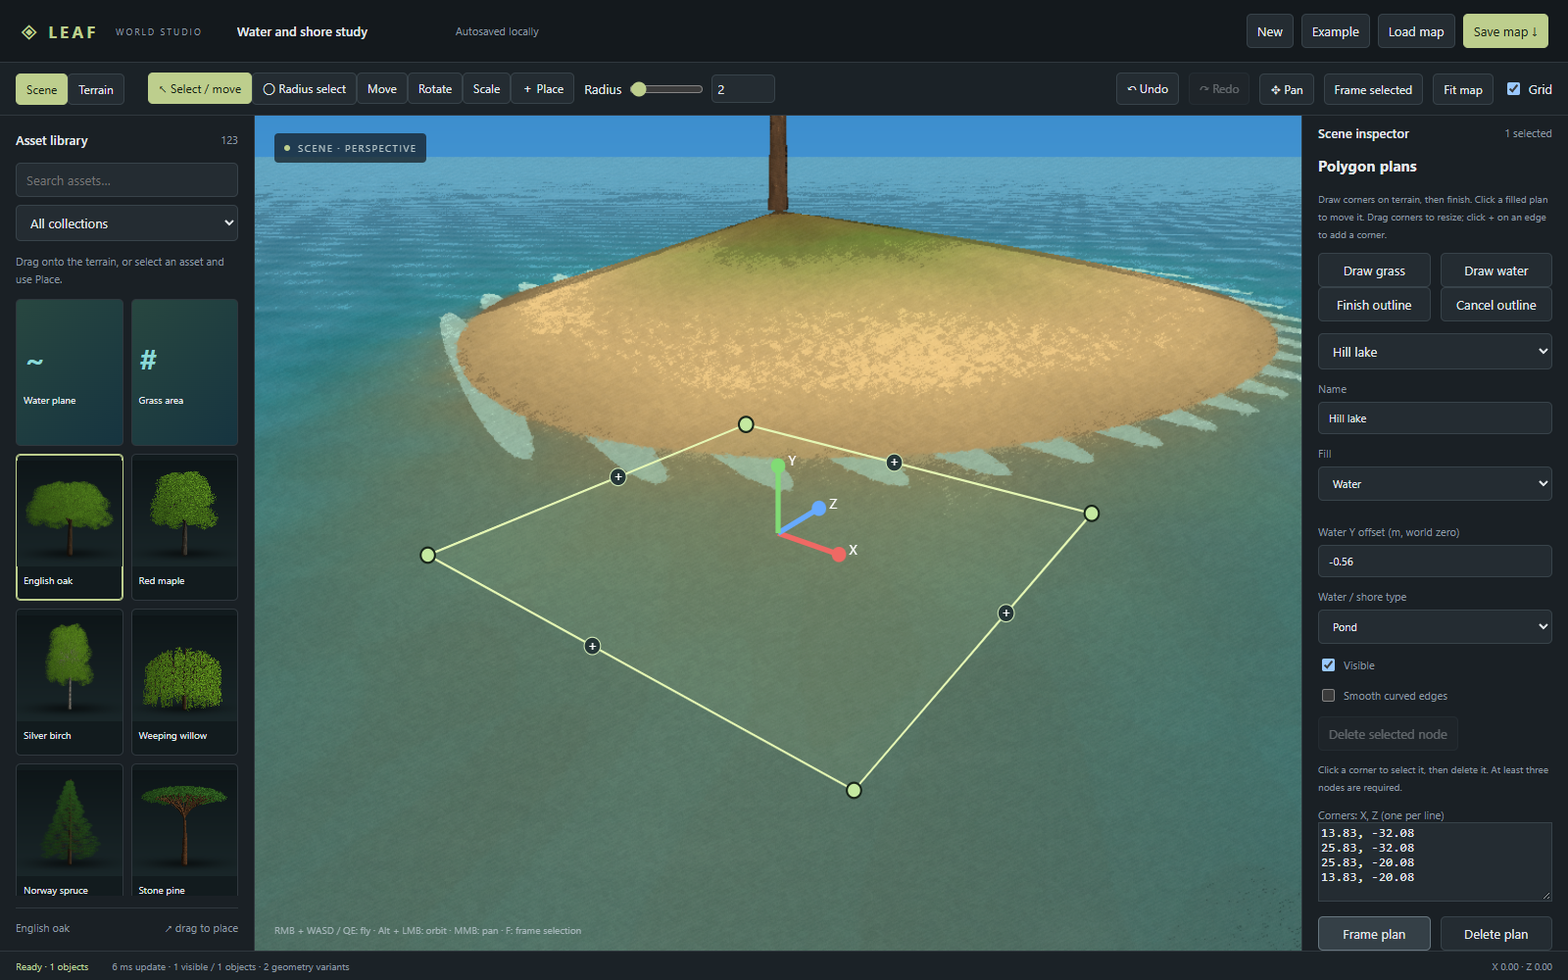
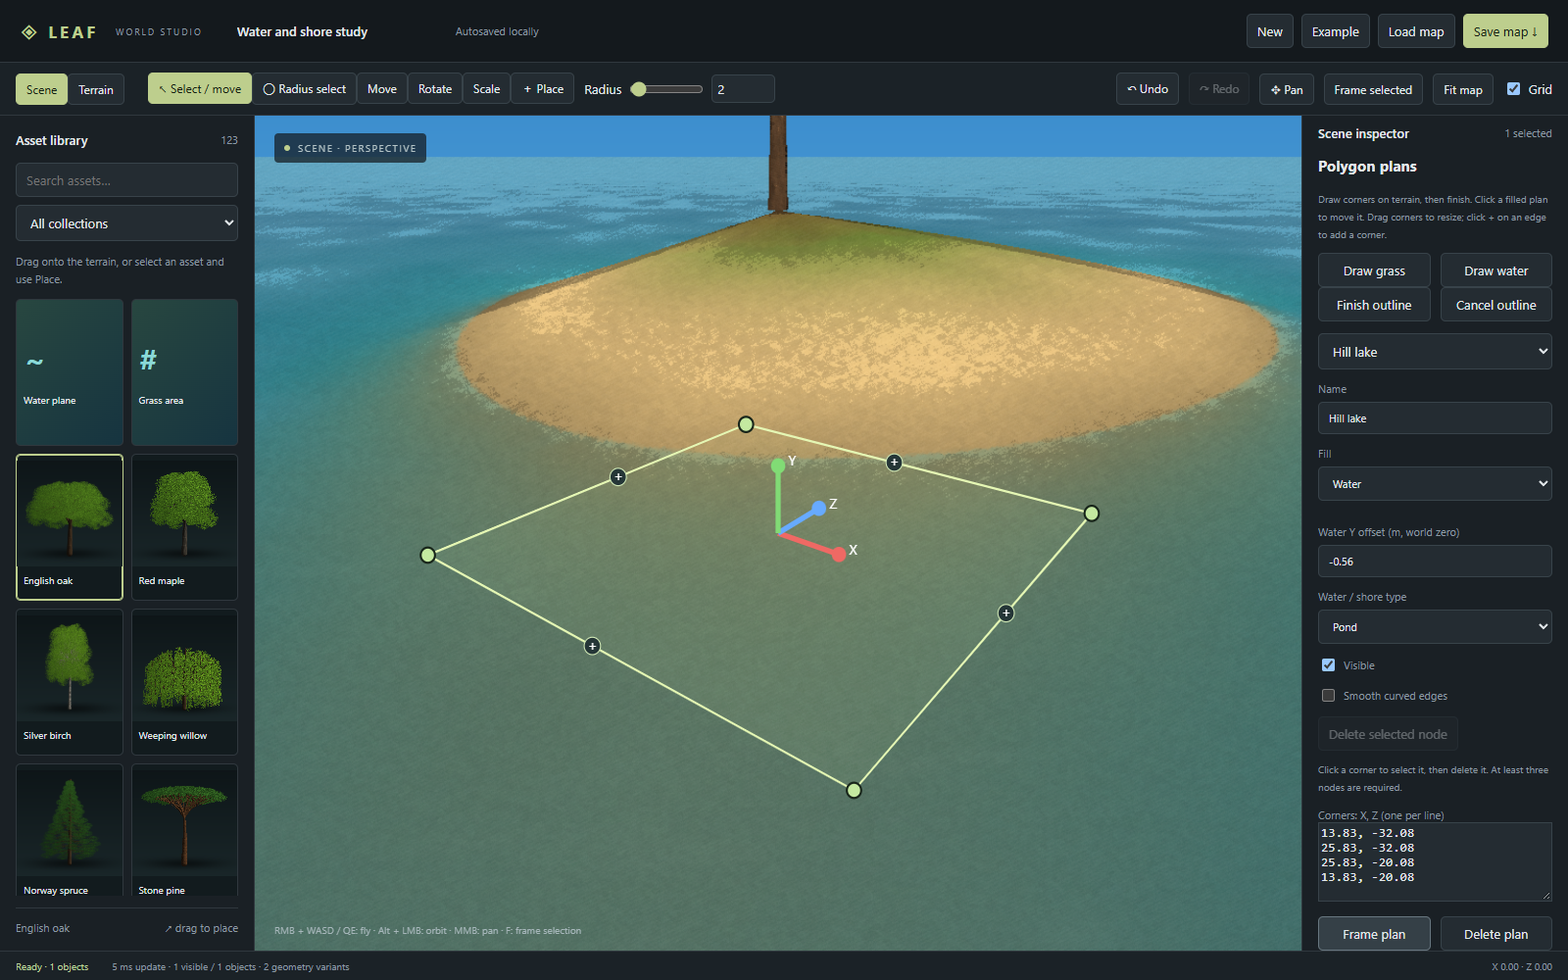
feat(editor): add island example and directional river flow

diff --git a/src/plan-model.js b/src/plan-model.js
@@ -2,6 +2,6 @@
 export function planOutline(p){if(!p.smooth)return p.vertices;const v=p.vertices,out=[];for(let i=0;i<v.length;i++){const a=v[(i+v.length-1)%v.length],b=v[i],c=v[(i+1)%v.length];const start={x:b.x+(a.x-b.x)*.22,z:b.z+(a.z-b.z)*.22},end={x:b.x+(c.x-b.x)*.22,z:b.z+(c.z-b.z)*.22};for(let k=0;k<4;k++){const t=k/3,u=1-t;out.push({x:u*u*start.x+2*u*t*b.x+t*t*end.x,z:u*u*start.z+2*u*t*b.z+t*t*end.z});}}return out;}
 const cross=(a,b,c)=>(b.x-a.x)*(c.z-a.z)-(b.z-a.z)*(c.x-a.x);
 export function insidePlan(x,z,vertices){let inside=false;for(let i=0,j=vertices.length-1;i<vertices.length;j=i++){const a=vertices[i],b=vertices[j];if((a.z>z)!==(b.z>z)&&x<(b.x-a.x)*(z-a.z)/(b.z-a.z)+a.x)inside=!inside;}return inside;}
-export function validatePlans(value,extent){if(value===undefined)return [];if(!Array.isArray(value)||value.length>16)throw Error('Up to 16 plans are supported.');const ids=new Set();let tiles=0;return value.map(p=>{if(!p||!Number.isInteger(p.id)||p.id<1||ids.has(p.id)||!['grass','water'].includes(p.type)||typeof p.name!=='string'||p.name.length>80||typeof p.visible!=='boolean')throw Error('Invalid plan.');ids.add(p.id);if(!Array.isArray(p.vertices)||p.vertices.length<3||p.vertices.length>32||p.vertices.some(v=>!v||!Number.isFinite(v.x)||!Number.isFinite(v.z)||Math.abs(v.x)>extent/2||Math.abs(v.z)>extent/2))throw Error('A plan needs 3-32 corners inside the map.');const v=p.vertices;let area=0;for(let i=0;i<v.length;i++){const a=v[i],b=v[(i+1)%v.length];if(Math.hypot(a.x-b.x,a.z-b.z)<.01)throw Error('Plan edges must have length.');area+=a.x*b.z-b.x*a.z;for(let j=i+2;j<v.length;j++){if(i===0&&j===v.length-1)continue;const c=v[j],d=v[(j+1)%v.length];if(cross(a,b,c)*cross(a,b,d)<=0&&cross(c,d,a)*cross(c,d,b)<=0&&Math.max(Math.min(a.x,b.x),Math.min(c.x,d.x))<=Math.min(Math.max(a.x,b.x),Math.max(c.x,d.x))&&Math.max(Math.min(a.z,b.z),Math.min(c.z,d.z))<=Math.min(Math.max(a.z,b.z),Math.max(c.z,d.z)))throw Error('Plan edges must not cross.');}}if(Math.abs(area)<.1)throw Error('Plan needs a nonzero area.');if(!Number.isInteger(p.seed)||p.seed<0||p.seed>4294967295||!Number.isFinite(p.spacing)||p.spacing<.5||p.spacing>32||!Number.isFinite(p.scale)||p.scale<.1||p.scale>3||!Number.isInteger(p.preset)||p.preset<61||p.preset>70||!Number.isFinite(p.level)||p.level< -256||p.level>2048||!['pond','lake','ocean'].includes(p.kind))throw Error('Invalid plan fill settings.');if(p.smooth!==undefined&&typeof p.smooth!=="boolean"||p.randomRotation!==undefined&&typeof p.randomRotation!=="boolean")throw Error("Invalid polygon options.");const result={smooth:p.smooth??false,randomRotation:p.randomRotation??true,id:p.id,name:p.name,type:p.type,visible:p.visible,vertices:v.map(a=>({x:a.x,z:a.z})),seed:p.seed,spacing:p.spacing,scale:p.scale,preset:p.preset,level:p.level,kind:p.kind};if(p.type==='grass'){const cells=planCells(result);tiles+=cells.length;if(tiles>8192)throw Error('Plans support 8,192 grass tiles in total; increase spacing.');}return result;});}
+export function validatePlans(value,extent){if(value===undefined)return [];if(!Array.isArray(value)||value.length>16)throw Error('Up to 16 plans are supported.');const ids=new Set();let tiles=0;return value.map(p=>{if(!p||!Number.isInteger(p.id)||p.id<1||ids.has(p.id)||!['grass','water'].includes(p.type)||typeof p.name!=='string'||p.name.length>80||typeof p.visible!=='boolean')throw Error('Invalid plan.');ids.add(p.id);if(!Array.isArray(p.vertices)||p.vertices.length<3||p.vertices.length>32||p.vertices.some(v=>!v||!Number.isFinite(v.x)||!Number.isFinite(v.z)||Math.abs(v.x)>extent/2||Math.abs(v.z)>extent/2))throw Error('A plan needs 3-32 corners inside the map.');const v=p.vertices;let area=0;for(let i=0;i<v.length;i++){const a=v[i],b=v[(i+1)%v.length];if(Math.hypot(a.x-b.x,a.z-b.z)<.01)throw Error('Plan edges must have length.');area+=a.x*b.z-b.x*a.z;for(let j=i+2;j<v.length;j++){if(i===0&&j===v.length-1)continue;const c=v[j],d=v[(j+1)%v.length];if(cross(a,b,c)*cross(a,b,d)<=0&&cross(c,d,a)*cross(c,d,b)<=0&&Math.max(Math.min(a.x,b.x),Math.min(c.x,d.x))<=Math.min(Math.max(a.x,b.x),Math.max(c.x,d.x))&&Math.max(Math.min(a.z,b.z),Math.min(c.z,d.z))<=Math.min(Math.max(a.z,b.z),Math.max(c.z,d.z)))throw Error('Plan edges must not cross.');}}if(Math.abs(area)<.1)throw Error('Plan needs a nonzero area.');if(!Number.isInteger(p.seed)||p.seed<0||p.seed>4294967295||!Number.isFinite(p.spacing)||p.spacing<.5||p.spacing>32||!Number.isFinite(p.scale)||p.scale<.1||p.scale>3||!Number.isInteger(p.preset)||p.preset<61||p.preset>70||!Number.isFinite(p.level)||p.level< -256||p.level>2048||!['pond','lake','ocean'].includes(p.kind))throw Error('Invalid plan fill settings.');if(p.smooth!==undefined&&typeof p.smooth!=="boolean"||p.randomRotation!==undefined&&typeof p.randomRotation!=="boolean")throw Error("Invalid polygon options.");if(p.flowDirection!==undefined&&(!Number.isFinite(p.flowDirection)||p.flowDirection<0||p.flowDirection>360)||p.flowSpeed!==undefined&&(!Number.isFinite(p.flowSpeed)||p.flowSpeed<0||p.flowSpeed>10)||p.flowEnabled!==undefined&&typeof p.flowEnabled!=="boolean")throw Error("Invalid water flow.");const result={flowEnabled:p.flowEnabled??false,flowDirection:p.flowDirection??90,flowSpeed:p.flowSpeed??1,smooth:p.smooth??false,randomRotation:p.randomRotation??true,id:p.id,name:p.name,type:p.type,visible:p.visible,vertices:v.map(a=>({x:a.x,z:a.z})),seed:p.seed,spacing:p.spacing,scale:p.scale,preset:p.preset,level:p.level,kind:p.kind};if(p.type==='grass'){const cells=planCells(result);tiles+=cells.length;if(tiles>8192)throw Error('Plans support 8,192 grass tiles in total; increase spacing.');}return result;});}
 export function planCells(p){const outline=planOutline(p);const xs=outline.map(v=>v.x),zs=outline.map(v=>v.z),minX=Math.min(...xs),maxX=Math.max(...xs),minZ=Math.min(...zs),maxZ=Math.max(...zs);const nx=Math.ceil((maxX-minX)/p.spacing),nz=Math.ceil((maxZ-minZ)/p.spacing);if(nx*nz>100000)throw Error('Plan grid is too dense; increase spacing.');const cells=[];for(let z=0;z<nz;z++)for(let x=0;x<nx;x++){const xx=minX+(x+.5)*p.spacing,zz=minZ+(z+.5)*p.spacing;if(insidePlan(xx,zz,outline))cells.push({x:xx,z:zz,rotation:p.randomRotation===false?0:((Math.imul(x+1,73856093)^Math.imul(z+1,19349663)^p.seed)>>>0)%360});}return cells;}
 export function planObjects(plans,objects){const used=new Set(objects.map(o=>o.id)),tiles=[];let id=1;for(const p of plans??[]){if(p.type!=='grass'||!p.visible)continue;while(used.has(id))id++;const planId=id++;used.add(planId);for(const cell of planCells(p))tiles.push({...cell,id:planId,preset:p.preset,seed:p.seed,scale:p.scale,visible:true,planId:p.id});}return tiles;}

diff --git a/src/plan-editor.js b/src/plan-editor.js
@@ -6,11 +6,11 @@ for(const p of PRESETS.filter(p=>p.id>=61&&p.id<=70)){const o=document.createEle
 for(const type of ['grass','water'])$('draw'+(type==='grass'?'Grass':'Water')+'Plan').onclick=()=>{draft={type,vertices:[]};selected=null;mode('plans');toast('Click corners on the terrain, then Finish outline.');request();};
 $('cancelPlan').onclick=()=>{draft=null;request();};$('finishPlan').onclick=()=>{if(!draft||draft.vertices.length<3)return toast('Place at least three corners.');const d=draft;edit(plans=>{selected=Math.max(0,...plans.map(p=>p.id))+1;plans.push({id:selected,name:(d.type==='grass'?'Grass':'Water')+' plan '+selected,type:d.type,vertices:d.vertices,visible:true,seed:42,spacing:2,scale:.4,preset:61,level:terrainHeight(getMap(),d.vertices[0].x,d.vertices[0].z)+.5,kind:'lake'});});if(chosen())draft=null;refresh();request();};
 $('planList').onchange=()=>select(Number($('planList').value));
-for(const [id,key] of [['planSmooth','smooth'],['planRandomRotation','randomRotation'],['planSeed','seed'],['planName','name'],['planType','type'],['planPreset','preset'],['planSpacing','spacing'],['planScale','scale'],['planLevel','level'],['planKind','kind'],['planVisible','visible']])$(id).onchange=()=>edit(plans=>{const p=plans.find(p=>p.id===selected);if(p)p[key]=['visible','smooth','randomRotation'].includes(key)?$(id).checked:['name','type','kind'].includes(key)?$(id).value:Number($(id).value);});
+for(const [id,key] of [['planFlowEnabled','flowEnabled'],['planFlowDirection','flowDirection'],['planFlowSpeed','flowSpeed'],['planSmooth','smooth'],['planRandomRotation','randomRotation'],['planSeed','seed'],['planName','name'],['planType','type'],['planPreset','preset'],['planSpacing','spacing'],['planScale','scale'],['planLevel','level'],['planKind','kind'],['planVisible','visible']])$(id).onchange=()=>edit(plans=>{const p=plans.find(p=>p.id===selected);if(p)p[key]=['visible','smooth','randomRotation','flowEnabled'].includes(key)?$(id).checked:['name','type','kind'].includes(key)?$(id).value:Number($(id).value);});
 $('planVertices').onchange=()=>{try{const vertices=$('planVertices').value.trim().split(/\n/).map(line=>{const [x,z]=line.trim().split(/[, ]+/).map(Number);return {x,z};});edit(plans=>{const p=plans.find(p=>p.id===selected);if(p)p.vertices=vertices;});}catch(e){toast(e.message);}};
 $('deletePlanNode').onclick=()=>{const p=chosen();if(!p||node===null)return;if(p.vertices.length<=3)return toast('A polygon needs at least three nodes.');edit(plans=>plans.find(p=>p.id===selected).vertices.splice(node,1));node=null;refresh();request();};
 $('deletePlan').onclick=()=>edit(plans=>{const i=plans.findIndex(p=>p.id===selected);if(i>=0)plans.splice(i,1);});$('framePlan').onclick=()=>{const p=chosen();if(!p)return;const x=p.vertices.reduce((s,v)=>s+v.x,0)/p.vertices.length,z=p.vertices.reduce((s,v)=>s+v.z,0)/p.vertices.length;frame([x,p.type==='water'?p.level:terrainHeight(getMap(),x,z),z],Math.max(3,...p.vertices.map(v=>Math.hypot(v.x-x,v.z-z))));};
-function refresh(){if(selected&&!chosen())selected=null;$('planList').replaceChildren();for(const p of getMap().plans??[]){const o=document.createElement('option');o.value=p.id;o.textContent=p.name;$('planList').append(o);}$('planList').value=selected??'';const p=chosen();$('planSmooth').checked=p?.smooth??false;$('planRandomRotation').checked=p?.randomRotation??true;$('planSeed').value=p?.seed??42;for(const id of ['planRandomRotation','planSeed'])$(id).parentElement.hidden=p?.type==='water';$('deletePlanNode').disabled=!p||node===null||p.vertices.length<=3;$('planTransform').disabled=!p;$('planHeightLabel').hidden=p?.type!=='water';$('planShoreLabel').hidden=p?.type!=='water';for(const id of ['planPreset','planSpacing','planScale'])$(id).parentElement.hidden=p?.type==='water';for(const [id,key] of [['planName','name'],['planType','type'],['planPreset','preset'],['planSpacing','spacing'],['planScale','scale'],['planLevel','level'],['planKind','kind']])$(id).value=p?.[key]??'';if(p)$('planLevel').value=p.level.toFixed(2);$('planVisible').checked=p?.visible??true;$('planVertices').value=p?p.vertices.map(v=>`${v.x.toFixed(2)}, ${v.z.toFixed(2)}`).join('\n'):'';}
+function refresh(){if(selected&&!chosen())selected=null;$('planList').replaceChildren();for(const p of getMap().plans??[]){const o=document.createElement('option');o.value=p.id;o.textContent=p.name;$('planList').append(o);}$('planList').value=selected??'';const p=chosen();$('planFlow').hidden=p?.type!=='water';$('planFlowEnabled').checked=p?.flowEnabled??false;$('planFlowDirection').value=p?.flowDirection??90;$('planFlowSpeed').value=p?.flowSpeed??1;$('planSmooth').checked=p?.smooth??false;$('planRandomRotation').checked=p?.randomRotation??true;$('planSeed').value=p?.seed??42;for(const id of ['planRandomRotation','planSeed'])$(id).parentElement.hidden=p?.type==='water';$('deletePlanNode').disabled=!p||node===null||p.vertices.length<=3;$('planTransform').disabled=!p;$('planHeightLabel').hidden=p?.type!=='water';$('planShoreLabel').hidden=p?.type!=='water';for(const id of ['planPreset','planSpacing','planScale'])$(id).parentElement.hidden=p?.type==='water';for(const [id,key] of [['planName','name'],['planType','type'],['planPreset','preset'],['planSpacing','spacing'],['planScale','scale'],['planLevel','level'],['planKind','kind']])$(id).value=p?.[key]??'';if(p)$('planLevel').value=p.level.toFixed(2);$('planVisible').checked=p?.visible??true;$('planVertices').value=p?p.vertices.map(v=>`${v.x.toFixed(2)}, ${v.z.toFixed(2)}`).join('\n'):'';}
 function hitPoint(screen,level){const d=ray(view,screen),t=(level-view.position[1])/d[1];if(!Number.isFinite(t)||t<=0)return null;return {x:view.position[0]+d[0]*t,z:view.position[2]+d[2]*t};}
 function dragPoint(screen,plan,map){if(plan.type==='water')return hitPoint(screen,plan.level);const q=surfaceRay(view,map,screen);return q.hit?q:null;}
 function down(event,screen,world,picked,renderObjects){const handle=event.target.closest('[data-plan-vertex],[data-plan-edge]');if(handle&&chosen()){const p=chosen(),base=structuredClone(getMap());let vertex=Number(handle.dataset.planVertex);if(handle.dataset.planEdge!==undefined){if(p.vertices.length>=32){toast('Maximum 32 corners.');return true;}const index=Number(handle.dataset.planEdge),q=base.plans.find(p=>p.id===selected),a=q.vertices[index],b=q.vertices[(index+1)%q.vertices.length];vertex=index+1;q.vertices.splice(vertex,0,{x:(a.x+b.x)/2,z:(a.z+b.z)/2});}const start=dragPoint(screen,p,base);if(!start)return true;node=vertex;drag={base,vertex,start};preview(base);refresh();return true;}

diff --git a/src/island-example.js b/src/island-example.js
@@ -1,0 +1,24 @@
+import {emptyMap,terrainHeight,validateMap} from './map-model.js';
+import {defaultScale} from './asset-scale.js';
+import {insidePlan,planOutline,planCells} from './plan-model.js';
+// One kilometre map: offshore margin, coastal shelf, wooded uplands and an estuary.
+export function islandExample(){
+ const m=emptyMap();m.name='Island - 1 km';m.extent=1000;m.light={azimuth:235,elevation:38};m.water.ocean={enabled:true,level:0};m.water.weather={windDirection:35,windSpeed:3,rain:0};
+ const riverX=z=>28*Math.sin((z+80)/100);
+ const height=(x,z)=>{const a=Math.atan2(z,x),r=Math.hypot(x/1.06,z),shore=350+24*Math.sin(a*3)+16*Math.cos(a*5),inland=shore-r;let h=inland<0?inland*.18:Math.min(24,inland*.20);h+=65*Math.exp(-((x+135)**2+(z+100)**2)/10000)*Math.min(1,Math.max(0,inland/80))+42*Math.exp(-((x-150)**2+(z+95)**2)/6500);if(z>-95&&z<390){const d=Math.abs(x-riverX(z));const cut=Math.max(0,Math.min(1,(58-d)/36));const blend=cut*cut*(3-2*cut);h=h*(1-blend)+(-4)*blend;}const lake=Math.hypot(x,z+55);if(lake<70)h=Math.min(h,-3+(lake/70)**4*15);return h;};
+ for(let z=0;z<65;z++)for(let x=0;x<65;x++)m.terrain[z*65+x]=height((x/64-.5)*1000,(z/64-.5)*1000);
+ const addPlan=(name,type,vertices,extra={})=>m.plans.push({id:m.plans.length+1,name,type,vertices,visible:true,seed:42,spacing:4,scale:.7,preset:61,level:0,kind:'lake',smooth:true,randomRotation:true,...extra});
+ const oval=(x,z,rx,rz)=>Array.from({length:12},(_,i)=>({x:x+Math.cos(i*Math.PI/6)*rx,z:z+Math.sin(i*Math.PI/6)*rz}));
+ addPlan('Inland lagoon','water',oval(0,-55,68,68),{level:.1});
+ const riverZ=[-70,-10,50,110,170,230,290,350,400];
+ addPlan('River to the southern bay','water',[...riverZ.map(z=>({x:riverX(z)-36,z})),...riverZ.toReversed().map(z=>({x:riverX(z)+36,z}))],{level:.1,flowEnabled:true,flowDirection:90,flowSpeed:.8});
+ for(const [name,x,z,rx,rz,preset] of [['West meadow',-140,115,90,95,61],['East meadow',155,100,85,90,62],['Northern clearing',30,-225,75,45,67],['Coastal meadow',-180,-215,50,40,65]])addPlan(name,'grass',oval(x,z,rx,rz),{preset,seed:100+m.plans.length,spacing:4});
+ // Clip authored grass footprints to dry, gently sloping land before committing the example.
+ m.plans=m.plans.filter(p=>p.type==='water'||planCells(p).every(c=>terrainHeight(m,c.x,c.z)>3));
+ let seed=87191;const random=()=>{seed=(Math.imul(seed,1664525)+1013904223)>>>0;return seed/4294967296;};
+ const grass=m.plans.filter(p=>p.type==='grass').map(planOutline);
+ const place=(preset,x,z,factor=1)=>m.objects.push({id:m.objects.length+1,preset,x,z,scale:Math.min(3,defaultScale(preset)*factor),rotation:random()*360,seed:42+Math.floor(random()*4),visible:true});
+ for(let z=-335;z<335;z+=12)for(let x=-360;x<360;x+=12){const xx=x+(random()-.5)*7,zz=z+(random()-.5)*7,h=terrainHeight(m,xx,zz);if(h<6||grass.some(v=>insidePlan(xx,zz,v))||Math.abs(xx-riverX(zz))<53&&zz>-110||random()<.24)continue;const slope=Math.hypot(terrainHeight(m,xx+3,zz)-h,terrainHeight(m,xx,zz+3)-h)/3;if(slope>1)continue;place(h>38?4:random()<.65?0:2,xx,zz,.7+random()*.25);if(random()<.4)place(31,xx+3,zz+2,.9);if(random()<.13)place(111,xx-3,zz+3,.8);if(random()<.15)place(81,xx+2,zz-2,.8);}
+ for(let i=0;i<500;i++){const x=(random()-.5)*700,z=(random()-.5)*700,h=terrainHeight(m,x,z);if(h<1||h>75)continue;if(h<5)place(91+Math.floor(random()*5),x,z,.8+random()*.8);else if(grass.some(v=>insidePlan(x,z,v)))place(random()<.5?21:24,x,z,.8);else if(Math.abs(x-riverX(z))>50)place(random()<.5?11:41,x,z,.8);}
+ return validateMap(m);
+}

diff --git a/src/editor.js b/src/editor.js
@@ -1,7 +1,7 @@
 import {transformGizmo} from './transform-gizmo.js';
 import {planEditor} from './plan-editor.js';
 import {waterEditor} from './water-editor.js';
-import {forestExample} from './forest-example.js';
+import {islandExample} from './island-example.js';
 import {defaultScale} from './asset-scale.js';
 import {restoreMap,autosaveMap} from './map-storage.js';
 import {PRESETS} from './species.js';
@@ -82,7 +82,7 @@ $('load').onclick=()=>$('file').click();$('file').onchange=async()=>{const f=$('
 $('new').onclick=()=>{$('newMapName').value='Untitled woodland';$('newMapDialog').showModal();};
 $('cancelNewMap').onclick=()=>$('newMapDialog').close();
 $('newMapForm').onsubmit=e=>{e.preventDefault();const next=emptyMap();next.name=$('newMapName').value.trim()||'Untitled woodland';next.extent=Number($('newMapExtent').value);selection.clear();commit(next);$('newMapDialog').close();fit();toast('New map created. Its dimensions are fixed. Undo restores the previous map.');};
-function example(){selection.clear();commit(forestExample());view.yaw=-.30;view.pitch=-.28;view.speed=25;view.grid=false;$('grid').checked=false;frameCamera(view,[8,18,30],65);request();toast('Forest stress test: '+map.objects.length.toLocaleString()+' placements on 512 m of rolling hills.');}
+function example(){selection.clear();planUI.cancel();commit(islandExample());view.yaw=-.35;view.pitch=-.65;view.speed=50;view.grid=false;$('grid').checked=false;frameCamera(view,[0,12,0],410);request();toast('1 km island: coastal forest, grass areas, lagoon and flowing river.');}
 $('example').onclick=example;$('emptyExample').onclick=example;
 async function draw(){if(busy||!dirty||!renderer)return;busy=true;dirty=false;$('status').textContent='Updating scene…';const start=performance.now();const previous=window.mapDiagnostics.lastRenderStart;window.mapDiagnostics.lastRenderStart=start;try{await renderer.render(placementPreview??map,new Set(selection),{...view,position:[...view.position]});window.mapDiagnostics.frames++;const log=window.mapDiagnostics.timings??=[];log.push({ms:performance.now()-start,startGap:previous?start-previous:0,position:[...view.position],...renderer.profile});if(log.length>300)log.shift();$('status').textContent='Ready · '+map.objects.length+' objects';$('stats').textContent=`${(performance.now()-start).toFixed(0)} ms update · ${renderer.rendered} visible / ${map.objects.length} objects · ${renderer.cache.size+renderer.highCache.size} geometry variants`;overlay();}catch(e){fail(e);}finally{busy=false;if(renderer?.pendingDetail)dirty=true;if(dirty)request();}}
 

diff --git a/src/water-model.js b/src/water-model.js
@@ -8,4 +8,4 @@ const ids=new Set();const planes=w.planes.map(p=>{if(!p||!Number.isInteger(p.id)
 const weather=w.weather??defaultWater().weather;if(!finite(weather.windDirection,0,360)||!finite(weather.windSpeed,0,30)||!finite(weather.rain,0,1))throw Error('Invalid water weather.');return {ocean:{enabled:w.ocean.enabled,level:w.ocean.level},planes,weather:{...weather}};}
 export function packWater(water){const rows=[];if(water.ocean.enabled)rows.push(0,0,0,0,water.ocean.level,0,2,1);for(const p of water.planes)if(p.visible)rows.push(p.x,p.z,p.width*.5,p.length*.5,p.level,p.rotation*Math.PI/180,p.kind==='ocean'?2:p.kind==='lake'?1:0,1);return new Float32Array(rows);}
 
-export function packSurfaces(water,plans=[]){const rows=Array.from(packWater(water)),points=new Float32Array(49*128*4);for(const p of plans){if(p.type!=='water'||!p.visible)continue;const outline=planOutline(p);const index=rows.length/8;const xs=outline.map(v=>v.x),zs=outline.map(v=>v.z),minX=Math.min(...xs),maxX=Math.max(...xs),minZ=Math.min(...zs),maxZ=Math.max(...zs);rows.push((minX+maxX)/2,(minZ+maxZ)/2,(maxX-minX)/2,(maxZ-minZ)/2,p.level,0,p.kind==='ocean'?2:p.kind==='lake'?1:0,outline.length);outline.forEach((v,i)=>points.set([v.x,v.z,0,0],(index*128+i)*4));}return {rows:new Float32Array(rows),points};}
+export function packSurfaces(water,plans=[]){const rows=Array.from(packWater(water)),points=new Float32Array(49*128*4);for(const p of plans){if(p.type!=='water'||!p.visible)continue;const outline=planOutline(p);const index=rows.length/8;const xs=outline.map(v=>v.x),zs=outline.map(v=>v.z),minX=Math.min(...xs),maxX=Math.max(...xs),minZ=Math.min(...zs),maxZ=Math.max(...zs);rows.push((minX+maxX)/2,(minZ+maxZ)/2,(maxX-minX)/2,(maxZ-minZ)/2,p.level,0,p.kind==='ocean'?2:p.kind==='lake'?1:0,outline.length);outline.forEach((v,i)=>points.set([v.x,v.z,p.flowEnabled?(p.flowDirection??90):0,p.flowEnabled?(p.flowSpeed??1):0],(index*128+i)*4));}return {rows:new Float32Array(rows),points};}

diff --git a/docs/water.md b/docs/water.md
@@ -34,3 +34,9 @@ Validation: test-plans.mjs checks concave filling, invalid edges, on-object edge
 Select a corner and use **Delete selected node** to remove it; deletion is disabled at three nodes. **Smooth curved edges** rounds the corners for both grass clipping and water rendering while retaining editable control nodes. Curves use up to 128 sampled boundary points. **Seeded random grass rotation** can be disabled for aligned tiles; the grass rotation seed produces repeatable rotation per tile without changing position or scale.
 
 Transparency uses exponential attenuation over the underwater viewing-ray distance. Shallow water reveals terrain and submerged objects; deeper water becomes opaque. Coastal water is clearest, lakes intermediate, and ponds murkier. Fresnel reflection and shoreline foam remain visible. This composites the existing scene without refractive distortion; pixels without a rendered seabed retain the water colour.
+
+Water uses broad irregular wave shading with distance-filtered ripples and a narrow, softly varying shoreline wash. Beyond map edges the synthetic seabed stays submerged, avoiding an unrendered land strip between terrain and ocean.
+
+Water polygon inspectors include Directional river flow, direction (0 degrees along +X, 90 along +Z), and speed in metres per second. Current advects the procedural surface pattern independently of shared wind and persists with the map. Surfaces remain horizontal: this is a visual current, not downhill fluid simulation.
+
+The Example button now creates a 1000 by 1000 metre island map: ocean and sandy shores, two wooded uplands, four curved grass areas using seeded rotation, a lagoon and a carved river channel. The original forest generator remains available in source for stress testing.

diff --git a/README.md b/README.md
@@ -6,7 +6,7 @@ Ten tree presets, ten bush presets, ten flower presets, ten fern presets, ten mo
 
 ## Map editor
 
-Open `editor.html` for the Scene and Terrain workspaces: all 121 assets, drag/drop, radius selection, transforms, height brushes, automatic ground attachment, undo/redo, autosave and JSON map/terrain save-load. The editor now has a perspective camera with Unity-style right-mouse flight, Alt-orbit, pan and selection framing. Worlds support up to 65,536 m width and 100,000 stored placements, with sparse terrain and bounded visible rendering. Use **Example** to load the 512 m forest hills stress test: 7,923 placements, mixed woodland, clearings and rolling terrain. See `docs/editor.md` for controls, limits and tests.
+Open `editor.html` for the Scene and Terrain workspaces: all 121 assets, drag/drop, radius selection, transforms, height brushes, automatic ground attachment, undo/redo, autosave and JSON map/terrain save-load. The editor now has a perspective camera with Unity-style right-mouse flight, Alt-orbit, pan and selection framing. Worlds support up to 65,536 m width and 100,000 stored placements, with sparse terrain and bounded visible rendering. Use **Example** to load the 1 km island: wooded uplands, sandy beaches, four curved grass areas with seeded rotations, a lagoon and a river with directional surface flow. See `docs/editor.md` for controls, limits and tests.
 
 ## Run
 
